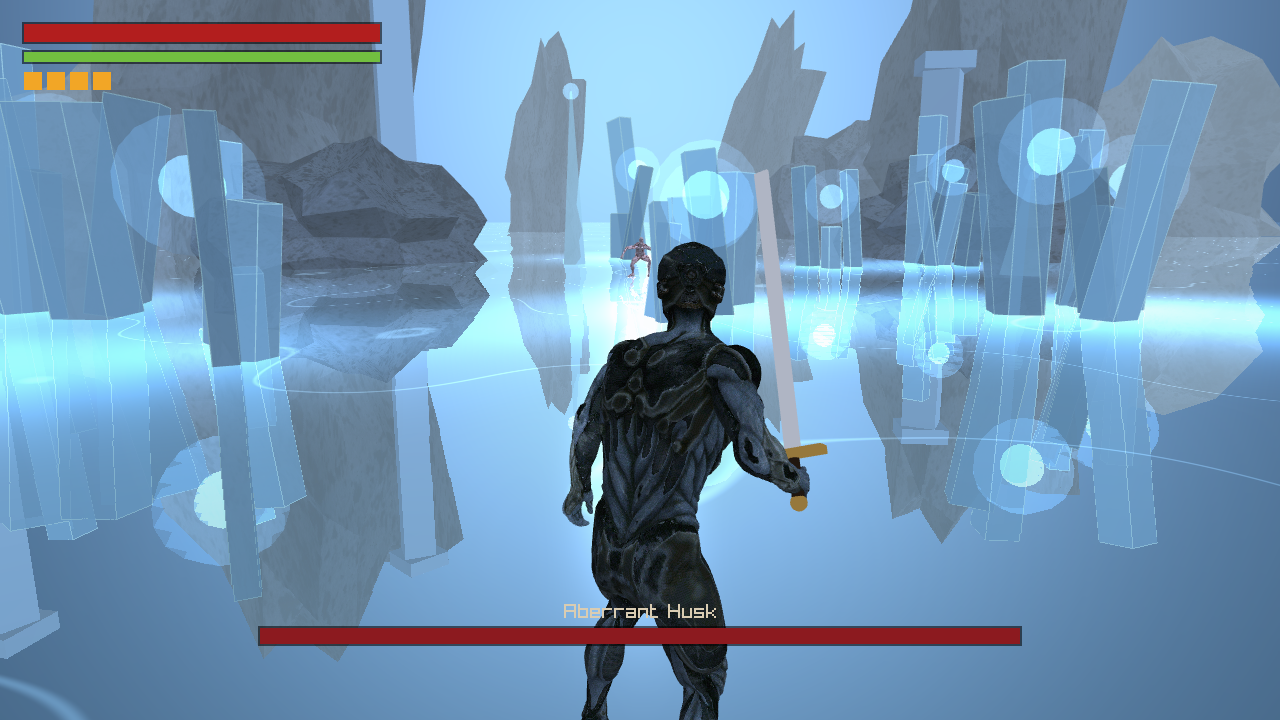
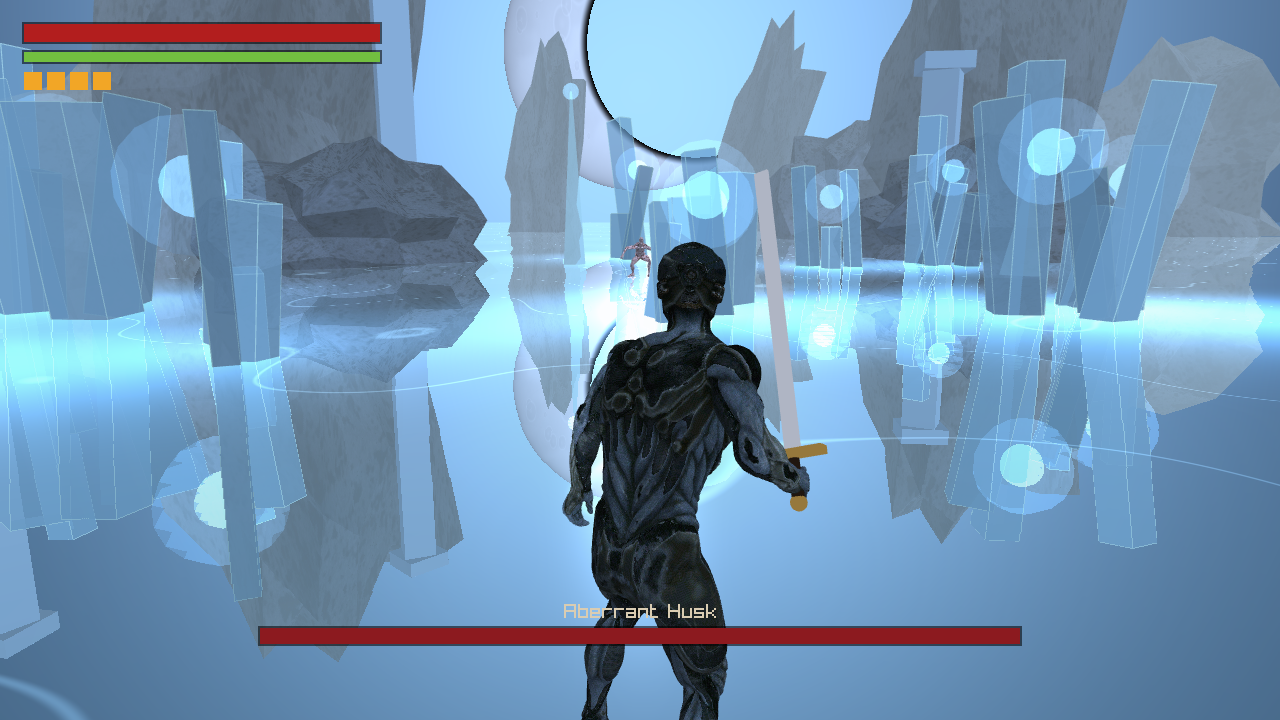
Frozen Cathedral: add a cold crescent moon to the sky
New moon_crescent.fs masks the moon disc to a crescent (offset shadow circle cut away so the sky shows through), pale white-blue with limb darkening + crater detail. arena.cpp loads it for LEVEL_FROZEN and now draws the moon there (the cold halo comes from the ice sky dome). The blood-moon level is unchanged.

Changed region(s): [[0.375, 0.0, 0.5625, 0.275], [0.375, 0.4583, 0.5, 0.6722], [0.4375, 0.3667, 0.5, 0.3972]]

diff --git a/src/arena.cpp b/src/arena.cpp
@@ -120,8 +120,9 @@ void load(Shader lit) {
     Mesh disc = GenMeshPlane(48.0f, 48.0f, 1, 1);
     s_moon = LoadModelFromMesh(disc);
     s_moon.materials[0].maps[MATERIAL_MAP_DIFFUSE].texture = assets::texture("textures/moon/blood_moon.png");
+    const char* moon_fs = (g_level == LEVEL_FROZEN) ? "shaders/moon_crescent.fs" : "shaders/moon.fs";
     s_moon_shader = LoadShader(assets::path("shaders/moon.vs").c_str(),
-                               assets::path("shaders/moon.fs").c_str());
+                               assets::path(moon_fs).c_str());
     s_moon.materials[0].shader = s_moon_shader;
     s_has_moon = true;
 
@@ -189,8 +190,8 @@ void draw_sky(Camera3D cam) {
 
 void draw_world(Camera3D cam) {
     (void)cam;
-    // blood-moon disc — the frozen cathedral is moonless, so skip it there
-    if (s_has_moon && g_level != LEVEL_FROZEN)
+    // sky moon: a full blood moon in the ruin, a cold crescent in the frozen cathedral
+    if (s_has_moon)
         DrawModelEx(s_moon, MOON_POS, Vector3{ 1, 0, 0 }, 90.0f, Vector3{ 1, 1, 1 }, WHITE);
     if (s_has_model)
         for (int i = 0; i < s_model.meshCount; i++)